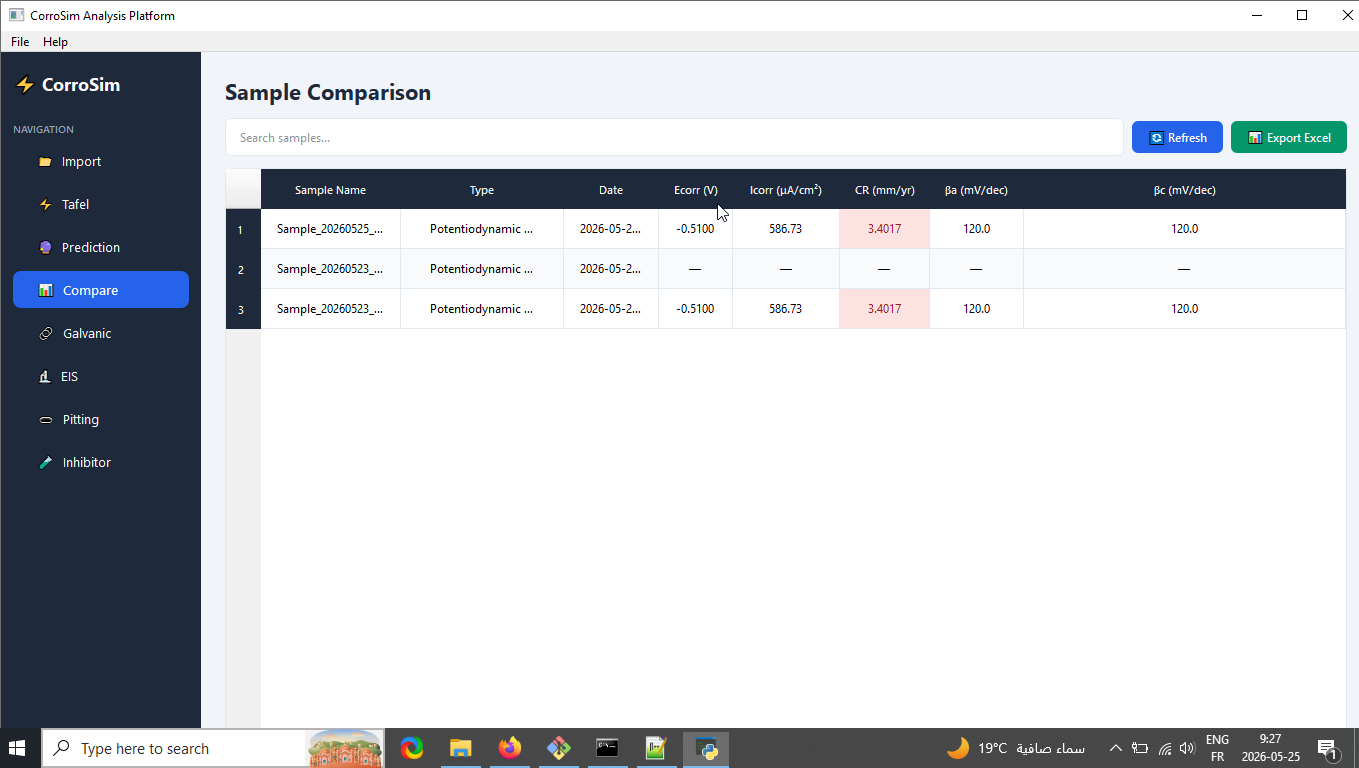
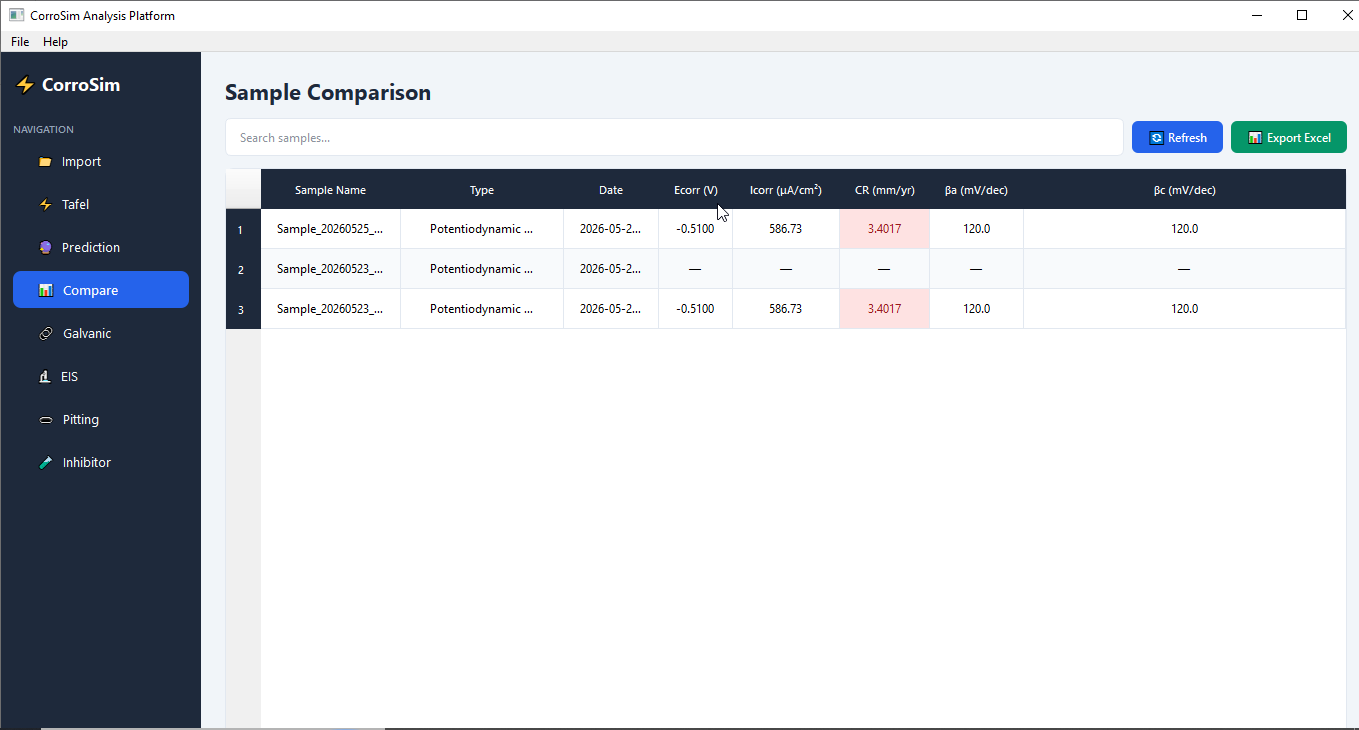
v1.5.0 - Add French translation support with lang/en.json and lang/fr.json

diff --git a/corrosim/app.py b/corrosim/app.py
@@ -12,6 +12,7 @@ from .tabs.eis_tab import EISTab
 from .tabs.pitting_tab import PittingTab
 from .tabs.inhibitor_tab import InhibitorTab
 from matplotlib.figure import Figure
+from .utils.translations import Translator
 
 
 class MainWindow(QMainWindow):
@@ -19,11 +20,13 @@ class MainWindow(QMainWindow):
 
     def __init__(self):
         super().__init__()
+        self.tr = Translator.get()
         self.setWindowTitle("CorroSim Analysis Platform")
         self.setMinimumSize(1200, 800)
         self.resize(1400, 900)
         self.db = Database()
         self.nav_buttons = []
+        self.sidebar_buttons = []
         self.dark_mode = False
         self.setStyleSheet(GLOBAL_STYLE)
         self._setup_ui()
@@ -50,32 +53,33 @@ class MainWindow(QMainWindow):
         layout = QVBoxLayout(self.sidebar)
         layout.setContentsMargins(12, 20, 12, 20)
         layout.setSpacing(6)
-        logo = QLabel("⚡ CorroSim")
-        logo.setStyleSheet("font-size: 18px; font-weight: 700; color: white; background: transparent;")
-        layout.addWidget(logo)
+        self.logo_label = QLabel("⚡ CorroSim")
+        self.logo_label.setStyleSheet("font-size: 18px; font-weight: 700; color: white; background: transparent;")
+        layout.addWidget(self.logo_label)
         layout.addSpacing(20)
-        nav_label = QLabel("NAVIGATION")
-        nav_label.setStyleSheet("color: #94A3B8; font-size: 10px; font-weight: 600; background: transparent;")
-        layout.addWidget(nav_label)
+        self.nav_label = QLabel("NAVIGATION")
+        self.nav_label.setStyleSheet("color: #94A3B8; font-size: 10px; font-weight: 600; background: transparent;")
+        layout.addWidget(self.nav_label)
         tabs = [
-            ("📁", "Import", 0), ("⚡", "Tafel", 1), ("🔮", "Prediction", 2),
-            ("📊", "Compare", 3), ("🔗", "Galvanic", 4), ("🔬", "EIS", 5),
-            ("🕳️", "Pitting", 6), ("🧪", "Inhibitor", 7),
+            ("📁", "tab.import", 0), ("⚡", "tab.tafel", 1), ("🔮", "tab.prediction", 2),
+            ("📊", "tab.compare", 3), ("🔗", "tab.galvanic", 4), ("🔬", "tab.eis", 5),
+            ("🕳️", "tab.pitting", 6), ("🧪", "tab.inhibitor", 7),
         ]
-        for icon, text, idx in tabs:
-            btn = QPushButton(f"  {icon}  {text}")
+        for icon, key, idx in tabs:
+            btn = QPushButton(f"  {icon}  {self.tr.tr(key)}")
             btn.setProperty("active", "false")
             btn.clicked.connect(lambda checked, i=idx: self.switch_tab(i))
             self.nav_buttons.append(btn)
+            self.sidebar_buttons.append((btn, key))
             layout.addWidget(btn)
         layout.addStretch()
         sep = QFrame()
         sep.setFrameShape(QFrame.Shape.HLine)
         sep.setStyleSheet("background-color: #334155; max-height: 1px;")
         layout.addWidget(sep)
-        status = QLabel("● Database Connected")
-        status.setStyleSheet("color: #10B981; font-size: 10px; background: transparent; padding: 8px;")
-        layout.addWidget(status)
+        self.db_status = QLabel("● Database Connected")
+        self.db_status.setStyleSheet("color: #10B981; font-size: 10px; background: transparent; padding: 8px;")
+        layout.addWidget(self.db_status)
 
     def _create_tabs(self):
         self.tabs = QTabWidget()
@@ -139,10 +143,26 @@ class MainWindow(QMainWindow):
         theme_action.setShortcut("Ctrl+T")
         theme_action.triggered.connect(self._toggle_theme)
         file_menu.addAction(theme_action)
+        lang_menu = menubar.addMenu("Language")
+        en_action = QAction("English", self)
+        en_action.triggered.connect(lambda: self._switch_lang("en"))
+        lang_menu.addAction(en_action)
+        fr_action = QAction("Français", self)
+        fr_action.triggered.connect(lambda: self._switch_lang("fr"))
+        lang_menu.addAction(fr_action)
         help_menu = menubar.addMenu("Help")
         about_action = QAction("About", self)
         about_action.triggered.connect(self._show_about)
         help_menu.addAction(about_action)
+
+    def _switch_lang(self, lang):
+        self.tr.set_language(lang)
+        self.nav_label.setText(self.tr.tr("sidebar.navigation"))
+        for btn, key in self.sidebar_buttons:
+            icon = btn.text().strip()[:2]
+            btn.setText(f"  {icon}  {self.tr.tr(key)}")
+        self.db_status.setText(f"● {self.tr.tr('sidebar.database')}")
+        self.statusBar().showMessage(f"Language: {'English' if lang == 'en' else 'Français'}")
 
     def _export_pdf_report(self):
         from matplotlib.backends.backend_pdf import PdfPages

diff --git a/corrosim/utils/translations.py b/corrosim/utils/translations.py
@@ -1,0 +1,41 @@
+"""Translation module for CorroSim"""
+
+import json
+import os
+
+class Translator:
+    """Simple JSON-based translator"""
+    
+    _instance = None
+    _translations = {}
+    _current_lang = "en"
+    
+    def __init__(self):
+        self.load_translations()
+    
+    @classmethod
+    def get(cls):
+        if cls._instance is None:
+            cls._instance = cls()
+        return cls._instance
+    
+    def load_translations(self):
+        """Load translation files"""
+        path = os.path.join(os.path.dirname(__file__), '..', '..', 'lang')
+        for lang in ['en', 'fr']:
+            filepath = os.path.join(path, f'{lang}.json')
+            if os.path.exists(filepath):
+                with open(filepath, 'r', encoding='utf-8') as f:
+                    self._translations[lang] = json.load(f)
+    
+    def set_language(self, lang):
+        if lang in self._translations:
+            self._current_lang = lang
+    
+    def t(self, key, default=""):
+        """Translate a key"""
+        return self._translations.get(self._current_lang, {}).get(key, default or key)
+    
+    @staticmethod
+    def tr(key, default=""):
+        return Translator.get().t(key, default)

diff --git a/corrosim/__init__.py b/corrosim/__init__.py
@@ -3,13 +3,17 @@ CorroSim - Professional Corrosion Analysis Platform
 
 A comprehensive tool for electrochemical corrosion analysis including:
 - Tafel polarization analysis
+- Galvanic corrosion simulation
+- EIS impedance spectroscopy
+- Pitting corrosion analysis
+- Inhibitor efficiency calculation
 - Lifetime prediction
 - Multi-sample comparison
 - Data import/export
 """
 
 __version__ = "1.5.0"
-__author__ = "Oukil khaled ibn El-walid"
+__author__ = "Oukil Khaled Ibn El-Walid"
 __description__ = "Professional Corrosion Analysis Platform"
 
 from .tafel_engine import TafelEngine

diff --git a/README.md b/README.md
@@ -151,7 +151,7 @@ openpyxl>=3.1.0
 
 ```
 python tests/test_tafel.py
-```v
+```
 
 Expected output:
 
@@ -238,20 +238,20 @@ corrosim/
 │   │   └── inhibitor_engine.py  # Inhibitor efficiency + adsorption isotherms
 │   ├── tabs/                    # UI Tab modules (MVC pattern)
 │   │   ├── __init__.py
-│   │   ├── import_tab.py        # 📁 Data import (Excel/CSV)
-│   │   ├── tafel_tab.py         # ⚡ Tafel analysis interface
-│   │   ├── prediction_tab.py    # 🔮 Lifetime prediction (3 models)
-│   │   ├── comparison_tab.py    # 📊 Multi-sample comparison + export
-│   │   ├── galvanic_tab.py      # 🔗 Galvanic simulator (14 metals)
-│   │   ├── eis_tab.py           # 🔬 EIS spectroscopy (4 circuits)
-│   │   ├── pitting_tab.py       # 🕳️ Pitting analyzer (cyclic polarization)
-│   │   └── inhibitor_tab.py     # 🧪 Inhibitor efficiency + synergy
+│   │   ├── import_tab.py        # Data import (Excel/CSV)
+│   │   ├── tafel_tab.py         # Tafel analysis interface
+│   │   ├── prediction_tab.py    # Lifetime prediction (3 models)
+│   │   ├── comparison_tab.py    # Multi-sample comparison + export
+│   │   ├── galvanic_tab.py      # Galvanic simulator (14 metals)
+│   │   ├── eis_tab.py           # EIS spectroscopy (4 circuits)
+│   │   ├── pitting_tab.py       # Pitting analyzer (cyclic polarization)
+│   │   └── inhibitor_tab.py     # Inhibitor efficiency + synergy
 │   └── utils/                   # Utility modules
 │       ├── __init__.py
 │       └── constants.py         # Physical/electrochemical constants
 ├── tests/                       # Test suite
 │   ├── __init__.py
-│   └── test_tafel.py            # Tafel engine validation (R² > 0.999)
+│   └── test_tafel.py            # Tafel engine validation (R^2 > 0.999)
 ├── screenshots/                 # Application screenshots
 ├── dist/                        # Built packages for PyPI
 ├── requirements.txt             # Python dependencies